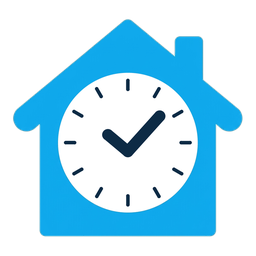
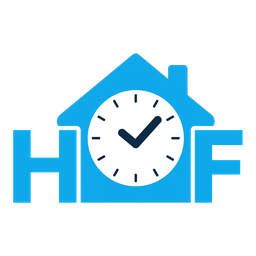
Deploy v2.13.1
Use the H-house-F mark for the store/integration icons and QR pages.

Claude-Session: https://claude.ai/code/session_015JhCeK2J8amCm9hKNRTT4K

diff --git a/homefrequency/app/templates/index.html b/homefrequency/app/templates/index.html
@@ -8,7 +8,7 @@
     <link rel="preconnect" href="https://fonts.googleapis.com">
     <link rel="preconnect" href="https://fonts.gstatic.com" crossorigin>
     <link href="https://fonts.googleapis.com/css2?family=Bebas+Neue&display=swap" rel="stylesheet">
-    <link rel="stylesheet" href="static/style.css?v=2.13.0">
+    <link rel="stylesheet" href="static/style.css?v=2.13.1">
 </head>
 <body>
     <script>const BASE_PATH = "{{ ingress_path }}";</script>
@@ -42,14 +42,14 @@
         </form>
         <div id="task-list" class="task-list"></div>
         <div class="data-tools">
-            <span class="version-label">v2.13.0</span>
+            <span class="version-label">v2.13.1</span>
             <a id="btn-qr-sheet" class="data-btn" href="qr-sheet" target="_blank" rel="noopener" title="Open a printable sheet of all tasks with QR enabled">Print QR sheet</a>
             <button id="btn-export" class="data-btn">Export</button>
             <button id="btn-import" class="data-btn">Import</button>
             <input type="file" id="import-file" accept=".json" style="display:none;">
         </div>
     </div>
-    <script src="static/vendor/qrcode.min.js?v=2.13.0"></script>
-    <script src="static/app.js?v=2.13.0"></script>
+    <script src="static/vendor/qrcode.min.js?v=2.13.1"></script>
+    <script src="static/app.js?v=2.13.1"></script>
 </body>
 </html>

diff --git a/homefrequency/CHANGELOG.md b/homefrequency/CHANGELOG.md
@@ -1,5 +1,8 @@
 # Changelog
 
+## 2.13.1
+- The H [clock-house] F mark is now used everywhere except the in-app header: Add-on Store icon, integration icon, add-on page logo, and the QR landing page / print sheet
+
 ## 2.13.0
 - After **Reset**, a toast gives you 5 seconds to say when you actually did it: **Yesterday**, **2 days ago**, **Pick date…**, or **Undo**. Tapping one moves that completion to the chosen day. Touching the toast pauses the countdown; ignoring it keeps "done now"
 - QR scan landing page and printable QR sheet now show the clock-house logo
